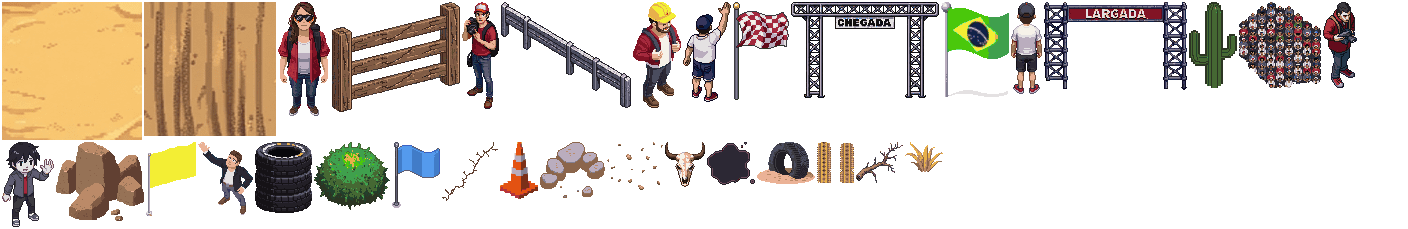
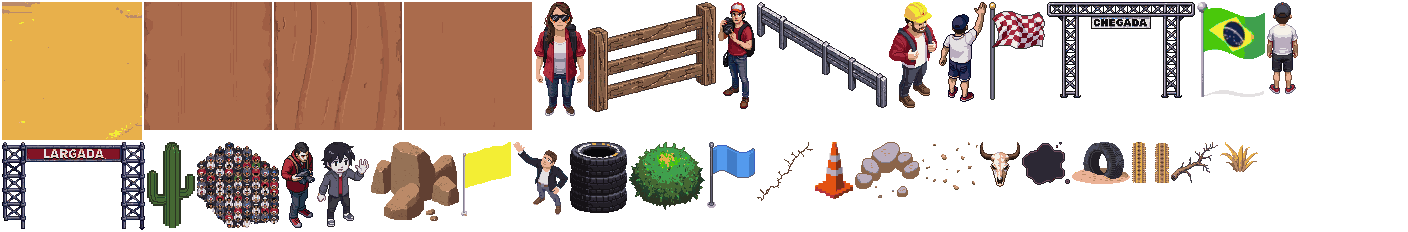
Terreno Wang: mancha pela Semente, transicao desenhada
O chao deixa de ser um ladrilho unico repetido - a repeticao era o que se
enxergava. Agora sao tres tipos de chao que se encostam, com a passagem entre
eles desenhada num tileset de canto.

Os niveis sao encaixados de proposito: o nivel 2 so aparece dentro de regioes
do nivel 1, porque os dois saem de faixas do mesmo campo continuo. E isso que
garante que so existam encontros 0-1 e 1-2, os unicos para os quais ha
transicao desenhada.

A ordem dos bits do tileset nao foi adivinhada: foi medida na folha gerada,
amostrando desvio e media de cada canto das dezesseis pecas.

O empacotador de folha deixou de apagar o que nao e dele - o tileset do
terreno sobrevive a uma remontagem dos objetos.

diff --git a/src/terreno.ts b/src/terreno.ts
@@ -1,0 +1,132 @@
+import { createRng, seedFromStageId } from './rng';
+import type { Stage } from './stage';
+
+/**
+ * O Terreno: o chão de um Bioma fora da Pista.
+ *
+ * Não é uma textura só repetida — era, e a repetição era o que se enxergava. São tipos de
+ * chão que se encostam, com a passagem de um para o outro **desenhada** num tileset de
+ * canto (Wang), e as manchas saem da Semente: mesma Etapa, mesmo chão, sempre.
+ *
+ * Terreno não é Pista. Não tem Borda, e pisar nele não é nada — não se chega nele sem já
+ * ter batido. Por isso ele pode ser puro desenho, sem uma linha sequer no modelo.
+ */
+
+/** Quantos tipos de chão um Bioma encosta. Três, encaixados um dentro do outro. */
+export const NIVEIS = 3;
+
+/**
+ * Os níveis são **encaixados**, não vizinhos quaisquer: o nível 2 só aparece dentro de
+ * regiões do nível 1, porque os dois saem de faixas do mesmo campo contínuo. É isso que
+ * garante que só existam encontros 0–1 e 1–2 — os únicos para os quais há transição
+ * desenhada. Um encontro 0–2 exigiria um terceiro tileset que ninguém gerou.
+ */
+const FAIXAS = [0.42, 0.72];
+
+/** Tamanho da célula do Terreno em pixels de mundo. Uma célula = um ladrilho. */
+export const CELULA = 96;
+
+/**
+ * Ruído de valor: um sorteio por vértice da grade, interpolado suavemente entre eles.
+ *
+ * É o mais simples que produz manchas em vez de chuvisco, e é determinístico a partir da
+ * Semente — que é o que a Etapa exige de tudo que a compõe.
+ */
+function ruidoBruto(semente: number, x: number, y: number): number {
+  let n = Math.imul(x | 0, 374761393) ^ Math.imul(y | 0, 668265263) ^ Math.imul(semente, 1442695041);
+  n = Math.imul(n ^ (n >>> 13), 1274126177);
+  return ((n ^ (n >>> 16)) >>> 0) / 4294967296;
+}
+
+const suave = (t: number) => t * t * (3 - 2 * t);
+
+/** O campo contínuo, em coordenadas de célula. Duas oitavas bastam para a mancha. */
+function campo(semente: number, cx: number, cy: number): number {
+  let total = 0;
+  let peso = 0;
+
+  for (const [escala, forca] of [
+    [0.14, 1],
+    [0.37, 0.45],
+  ]) {
+    const x = cx * escala;
+    const y = cy * escala;
+    const x0 = Math.floor(x);
+    const y0 = Math.floor(y);
+    const fx = suave(x - x0);
+    const fy = suave(y - y0);
+
+    const a = ruidoBruto(semente, x0, y0);
+    const b = ruidoBruto(semente, x0 + 1, y0);
+    const c = ruidoBruto(semente, x0, y0 + 1);
+    const d = ruidoBruto(semente, x0 + 1, y0 + 1);
+
+    total += forca * (a + (b - a) * fx + (c - a) * fy + (a - b - c + d) * fx * fy);
+    peso += forca;
+  }
+
+  return total / peso;
+}
+
+const sementes = new Map<string, number>();
+
+function sementeDe(stage: Stage): number {
+  const cache = sementes.get(stage.id);
+  if (cache !== undefined) return cache;
+  const semente = createRng(seedFromStageId(`${stage.id}-terreno`)).next() * 2 ** 31;
+  sementes.set(stage.id, semente | 0);
+  return semente | 0;
+}
+
+/** O nível do Terreno num **vértice** da grade, de 0 a 2. */
+export function nivelNoVertice(stage: Stage, vx: number, vy: number): number {
+  const v = campo(sementeDe(stage), vx, vy);
+  let nivel = 0;
+  for (const faixa of FAIXAS) if (v >= faixa) nivel++;
+  return nivel;
+}
+
+/**
+ * Que ladrilho vai numa célula: qual par de níveis ela encosta e qual das 16 formas.
+ *
+ * A forma vem dos quatro cantos, que é como um tileset de canto funciona: cada canto é
+ * do terreno de baixo ou do de cima, e os quatro bits juntos dão a peça.
+ *
+ * A ordem dos bits não foi adivinhada — foi medida na folha gerada, amostrando o desvio
+ * e a média de cada canto das dezesseis peças: **1 = sudeste, 2 = sudoeste, 4 = nordeste,
+ * 8 = noroeste**, com o bit ligado quando aquele canto é o terreno **de baixo**. Peça 0 é
+ * tudo de cima; peça 15 é tudo de baixo.
+ */
+export interface Ladrilho {
+  /** 0 para o tileset areia↔pedregoso, 1 para pedregoso↔rachado. */
+  par: number;
+  /** 0 a 15. */
+  forma: number;
+}
+
+const BIT = [8, 4, 1, 2]; // noroeste, nordeste, sudeste, sudoeste
+
+export function ladrilhoDaCelula(stage: Stage, cx: number, cy: number): Ladrilho {
+  const cantos = [
+    nivelNoVertice(stage, cx, cy),
+    nivelNoVertice(stage, cx + 1, cy),
+    nivelNoVertice(stage, cx + 1, cy + 1),
+    nivelNoVertice(stage, cx, cy + 1),
+  ];
+
+  const menor = Math.min(...cantos);
+  const maior = Math.max(...cantos);
+
+  // Célula inteira num nível só: a peça cheia, do lado certo do par.
+  if (menor === maior) {
+    return menor === 0 ? { par: 0, forma: 15 } : { par: menor - 1, forma: 0 };
+  }
+
+  // Encontro de níveis não vizinhos: não existe transição desenhada para ele — os níveis
+  // são encaixados justamente para isso não acontecer. Se acontecer, cai no par de baixo.
+  const par = maior - menor === 1 ? menor : 0;
+
+  let forma = 0;
+  for (let i = 0; i < 4; i++) if (cantos[i] === par) forma |= BIT[i];
+  return { par, forma };
+}

diff --git a/src/scenery.ts b/src/scenery.ts
@@ -1,7 +1,9 @@
 import desertSheet from '../assets/world/deserto.png';
+import desertTerrainSheet from '../assets/world/deserto-terreno.png';
 import desertV2Sheet from '../assets/world/deserto-v2.png';
 import iceForestSheet from '../assets/world/gelo-floresta.png';
 import cenario from './cenario.json';
+import { CELULA, ladrilhoDaCelula } from './terreno';
 import etapas from './cenario-etapas.json';
 import { normalAt, type Vec } from './path';
 import { createRng, seedFromStageId } from './rng';
@@ -53,6 +55,8 @@ interface Scenery {
   crowd: string;
   /** Tamanho na tela = pixels do sprite × isto. */
   propScale: number;
+  /** O tileset de canto do chão, quando o Bioma já tem um. */
+  terreno: { sheet: Sheet; tile: number; pares: number } | null;
   /**
    * Os recortes que ficam deitados no chão — marca de pneu, rachadura, mancha. Não são
    * painéis em pé, então não têm o que projetar: dar sombra a eles é a sombra flutuar.
@@ -74,6 +78,7 @@ const SHEETS: Record<string, Sheet> = {
   // O Deserto refeito. O chão e o leito ainda são os antigos, recortados para dentro
   // dela: os ladrilhos novos são os últimos da fila.
   'deserto-v2': { src: desertV2Sheet, image: new Image() },
+  'deserto-terreno': { src: desertTerrainSheet, image: new Image() },
 };
 
 /** A escala da arte antiga, calibrada à mão contra a largura da Pista. */
@@ -121,6 +126,14 @@ const SCENERY: Record<string, Scenery> = Object.fromEntries(
       // Bioma antigo for refeito.
       propScale: 'escala' in b ? (b.escala as number) : PROP_SCALE_ANTIGA,
       rasteiros: 'rasteiros' in b ? (b.rasteiros as string[]) : [],
+      terreno:
+        'terreno' in b
+          ? {
+              sheet: SHEETS[(b.terreno as { folha: string }).folha],
+              tile: (b.terreno as { tile: number }).tile,
+              pares: (b.terreno as { pares: number }).pares,
+            }
+          : null,
       quadros: agruparQuadros(Object.keys(b.recortes)),
     },
   ]),
@@ -198,6 +211,53 @@ function patternOf(
   const pattern = ctx.createPattern(tile, 'repeat');
   patterns.set(key, pattern);
   return pattern;
+}
+
+/**
+ * O Terreno: o chão desenhado célula a célula, com a transição entre tipos de chão vinda
+ * do tileset de canto. Substitui o ladrilho único onde o Bioma já tem tileset.
+ *
+ * Cada célula é resolvida na hora a partir da Semente — não há mapa guardado. O custo é
+ * um `drawImage` por célula visível, algumas centenas por quadro, o que é barato perto de
+ * guardar um mapa de uma Pista de vinte e três mil pixels.
+ */
+export function drawTerreno(
+  ctx: CanvasRenderingContext2D,
+  stage: Stage,
+  cam: Vec,
+  width: number,
+  height: number,
+): boolean {
+  const scenery = SCENERY[stage.biome.id];
+  const terreno = scenery?.terreno;
+  if (!terreno || !terreno.sheet.image.complete || terreno.sheet.image.naturalWidth === 0) {
+    return false;
+  }
+
+  const t = terreno.tile;
+  const de = { x: Math.floor(cam.x / CELULA), y: Math.floor(cam.y / CELULA) };
+  const ate = { x: Math.ceil((cam.x + width) / CELULA), y: Math.ceil((cam.y + height) / CELULA) };
+
+  ctx.imageSmoothingEnabled = false;
+
+  for (let cy = de.y; cy <= ate.y; cy++) {
+    for (let cx = de.x; cx <= ate.x; cx++) {
+      const { par, forma } = ladrilhoDaCelula(stage, cx, cy);
+      ctx.drawImage(
+        terreno.sheet.image,
+        (forma % 4) * t,
+        (par * 4 + Math.floor(forma / 4)) * t,
+        t,
+        t,
+        cx * CELULA,
+        cy * CELULA,
+        CELULA,
+        CELULA,
+      );
+    }
+  }
+
+  return true;
 }
 
 /** O chão do Bioma, já em coordenadas de mundo (chamar dentro do translate da câmera). */

diff --git a/src/render.ts b/src/render.ts
@@ -5,7 +5,7 @@ import { nextNotes, type PaceNote } from './pacenotes';
 import type { Path, Vec } from './path';
 import { formatTime } from './records';
 import { isOffRoute } from './route';
-import { drawGates, drawGround, drawProps, hasScenery, sceneryOf, trackFill, type Prop } from './scenery';
+import { drawGates, drawGround, drawProps, drawTerreno, hasScenery, sceneryOf, trackFill, type Prop } from './scenery';
 import { puddlesOf, type Puddle } from './surface';
 import type { Stage } from './stage';
 import type { Track } from './track';
@@ -70,7 +70,11 @@ export function drawScene(
   const biomeId = stage.biome.id;
   const scenery = hasScenery(biomeId);
 
-  if (scenery) drawGround(ctx, biomeId, cam, width, height, palette.background);
+  // O Terreno quando o Bioma já tem tileset; o ladrilho único é o que sobrou para os
+  // Biomas ainda não refeitos.
+  if (!drawTerreno(ctx, stage, cam, width, height) && scenery) {
+    drawGround(ctx, biomeId, cam, width, height, palette.background);
+  }
 
   const surface = (scenery && trackFill(ctx, biomeId)) || palette.track;
 

diff --git a/tools/montar-terreno.py b/tools/montar-terreno.py
@@ -1,0 +1,54 @@
+"""
+Empacota os tilesets Wang de um Bioma numa folha só, na ordem que o jogo indexa.
+
+Cada tileset tem dezesseis peças numeradas pela máscara dos cantos. A folha guarda um
+par por linha de quatro, o que dá quatro linhas por tileset — e o jogo acha a peça por
+conta, sem precisar de recorte nomeado.
+
+    python3 tools/montar-terreno.py deserto pasta-com-os-pngs/wang-a pasta/wang-b
+"""
+
+import json
+import re
+import sys
+from pathlib import Path
+
+from PIL import Image
+
+RAIZ = Path(__file__).resolve().parent.parent
+CENARIO = RAIZ / 'src' / 'cenario.json'
+
+
+def pecas(pasta: Path) -> list[Image.Image]:
+    arqs = sorted(pasta.glob('*.png'), key=lambda p: int(re.search(r'_(\d+)\.png$', p.name).group(1)))
+    if len(arqs) != 16:
+        raise SystemExit(f'{pasta}: esperava 16 peças, achei {len(arqs)}')
+    return [Image.open(a).convert('RGBA') for a in arqs]
+
+
+def main() -> int:
+    bioma = sys.argv[1]
+    pares = [pecas(Path(p)) for p in sys.argv[2:]]
+
+    lado = pares[0][0].width
+    folha = Image.new('RGBA', (lado * 4, lado * 4 * len(pares)), (0, 0, 0, 0))
+
+    for p, peças in enumerate(pares):
+        for i, im in enumerate(peças):
+            folha.alpha_composite(im, ((i % 4) * lado, (p * 4 + i // 4) * lado))
+
+    destino = RAIZ / 'assets' / 'world' / f'{bioma}-terreno.png'
+    folha.save(destino)
+
+    cenario = json.loads(CENARIO.read_text('utf8'))
+    nome = destino.stem
+    cenario['sheets'][nome] = str(destino.relative_to(RAIZ))
+    cenario['biomas'][bioma]['terreno'] = {'folha': nome, 'tile': lado, 'pares': len(pares)}
+    CENARIO.write_text(json.dumps(cenario, indent=2, ensure_ascii=False) + '\n', 'utf8')
+
+    print(f'{destino.relative_to(RAIZ)}: {folha.width}×{folha.height}, {len(pares)} pares de 16')
+    return 0
+
+
+if __name__ == '__main__':
+    raise SystemExit(main())

diff --git a/tools/montar-folha.py b/tools/montar-folha.py
@@ -25,6 +25,12 @@ CENARIO = RAIZ / 'src' / 'cenario.json'
 # próximo pode puxar uma linha do vizinho para dentro do sprite ao desenhar.
 FOLGA = 2
 
+# As chaves que este script é dono e reescreve por inteiro. Todo o resto do Bioma passa.
+PAPEIS_DE_OBJETO = {
+    'folha', 'escala', 'chao', 'leito', 'largada', 'chegada',
+    'beira', 'pesos', 'publico', 'rasteiros', 'plateia', 'recortes',
+}
+
 
 def cortar(img: Image.Image) -> Image.Image:
     """Ao que não é transparente. É o "ajustar ao conteúdo" do editor, feito na origem."""
@@ -115,7 +121,10 @@ def main() -> int:
 
     antigo = cenario['biomas'].get(bioma, {})
     beira = papeis.get('beira', [])
+    # O que não é papel de objeto — o tileset do Terreno, por exemplo — sobrevive: quem
+    # escreveu aquilo foi outro script, e este aqui não sabe nada sobre ele.
     cenario['biomas'][bioma] = {
+        **{k: v for k, v in antigo.items() if k not in PAPEIS_DE_OBJETO},
         'folha': nome_folha,
         'escala': manifesto['escala'],
         # O leito e o terreno viram um recorte só cada; a variação entre eles é do jogo.
